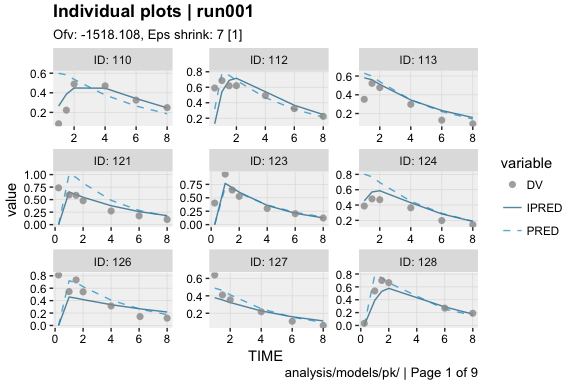
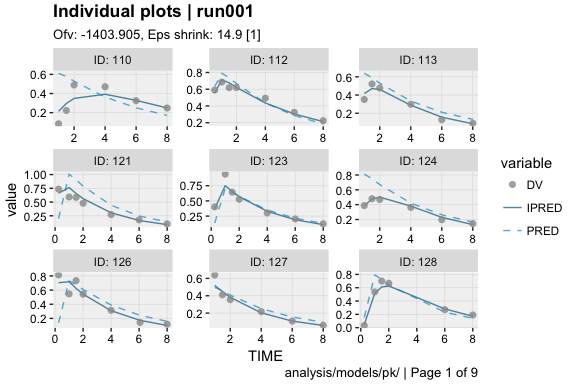
Readme: Updated

diff --git a/README.md b/README.md
@@ -40,8 +40,8 @@ xpdb
     run001.lst overview: 
      - Software: nonmem 7.3.0 
      - Attached files: 
-       + obs tabs: $prob no.1 (modified): catab001.csv, cotab001, patab001, sdtab001 
-       + sim tabs: $prob no.2 (modified): simtab001.zip 
+       + obs tabs: $prob no.1: catab001.csv, cotab001, patab001, sdtab001 
+       + sim tabs: $prob no.2: simtab001.zip 
        + output files: run001.cor, run001.cov, run001.ext, run001.grd, run001.phi, run001.shk 
        + special: <none> 
      - gg_theme: theme_readable 
@@ -56,19 +56,19 @@ summary(xpdb, problem = 1)
 
 
     Summary for problem no. 1 [Parameter estimation] 
-     - Input data                    @data       : mx19_1.csv
+     - Input data                    @data       : ../../mx19_2.csv
      - Number of individuals         @nind       : 74
-     - Number of observations        @nobs       : 1022
+     - Number of observations        @nobs       : 476
      - ADVAN                         @subroutine : 2
      - Estimation method             @method     : foce-i
      - Termination message           @term       : MINIMIZATION SUCCESSFUL
-     - Estimation runtime            @runtime    : 00:00:04
-     - Objective function value      @ofv        : -1518.108
-     - Number of significant digits  @nsig       : 3.6
-     - Covariance step runtime       @covtime    : 00:00:04
-     - Condition number              @condn      : 6.1
-     - Eta shrinkage                 @etashk     : 22 [1], 20.9 [2], 20.5 [3]
-     - Epsilon shrinkage             @epsshk     : 7 [1]
+     - Estimation runtime            @runtime    : 00:00:02
+     - Objective function value      @ofv        : -1403.905
+     - Number of significant digits  @nsig       : 3.3
+     - Covariance step runtime       @covtime    : 00:00:03
+     - Condition number              @condn      : 21.5
+     - Eta shrinkage                 @etashk     : 9.3 [1], 28.7 [2], 23.7 [3]
+     - Epsilon shrinkage             @epsshk     : 14.9 [1]
      - Run warnings                  @warnings   : (WARNING 2) NM-TRAN INFERS THAT THE DATA ARE POPULATION.
 
 #### Generate diagnostics
@@ -89,13 +89,23 @@ ind_plots(xpdb, page = 1)
 
 <img src="inst/img/readme_example_figure_2-1.png" width="75%" style="display: block; margin: auto;" />
 
+##### Individual plots
+
+``` r
+xpdb %>% 
+  vpc_data(stratify = 'SEX', opt = vpc_opt(n_bins = 7, lloq = 0.1)) %>% 
+  vpc()
+```
+
+<img src="inst/img/readme_example_figure_3-1.png" width="75%" style="display: block; margin: auto;" />
+
 ##### Distribution plots
 
 ``` r
 eta_distrib(xpdb, labeller = 'label_value')
 ```
 
-<img src="inst/img/readme_example_figure_3-1.png" width="75%" style="display: block; margin: auto;" />
+<img src="inst/img/readme_example_figure_4-1.png" width="75%" style="display: block; margin: auto;" />
 
 ##### Minimization diagnostics
 
@@ -103,9 +113,9 @@ eta_distrib(xpdb, labeller = 'label_value')
 prm_vs_iteration(xpdb, labeller = 'label_value')
 ```
 
-<img src="inst/img/readme_example_figure_4-1.png" width="75%" style="display: block; margin: auto;" />
+<img src="inst/img/readme_example_figure_5-1.png" width="75%" style="display: block; margin: auto;" />
 
-##### And much more !
+##### And many other features!
 
 ### Recommended reading
 
